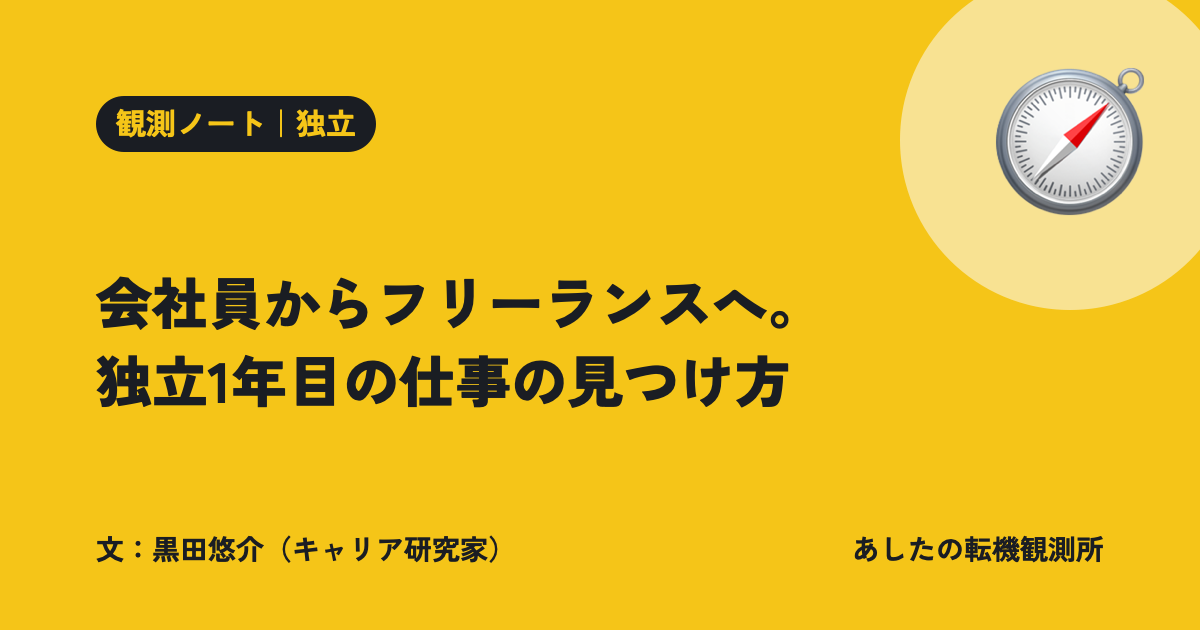
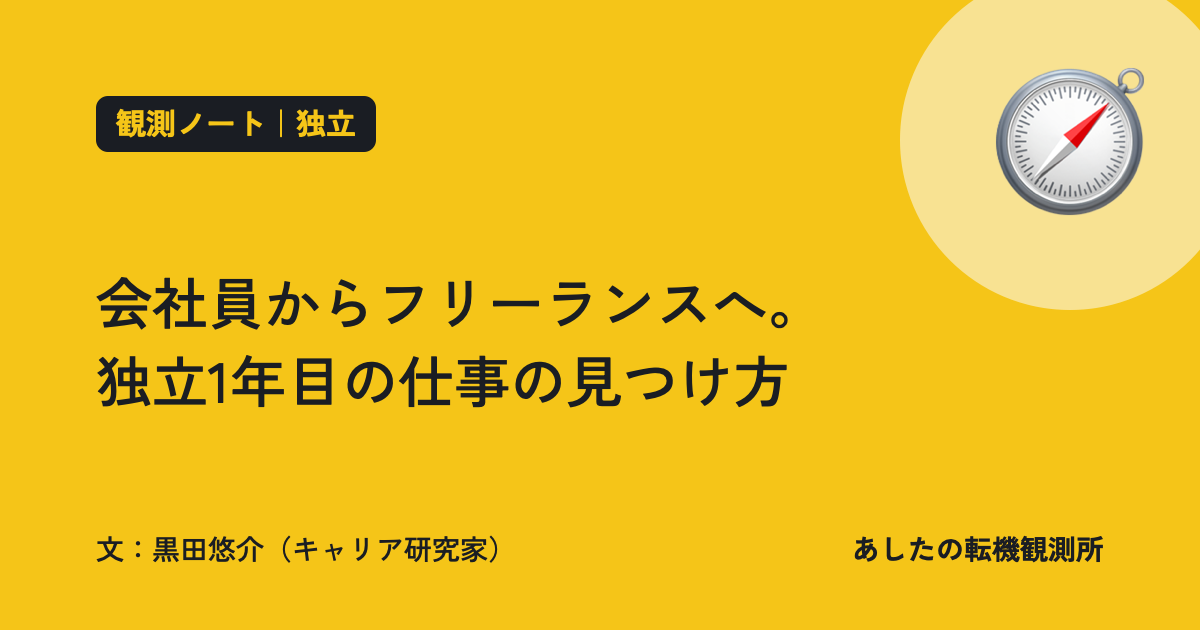
【デザイン】観測ノートの共有画像の題名を太さ500にし、札の角を小さくする（サイトの見出しに合わせる）
題名と署名は Zen Kaku Gothic New の Medium（もとは題名が Black）。札とサイト名は Bold のまま。
札の角は丸い形（rx 28）から 12 に。6本の画像を作り直した。

diff --git a/tools/make_og_images.py b/tools/make_og_images.py
@@ -207,7 +207,8 @@ def svg_note(note, fonts, antenna):
     line_h = int(size * 1.4)
     block = line_h * (len(lines) - 1)
     top = int(345 - block / 2 + size * 0.35)  # 見出しの塊を、上のラベルと下の署名の間の真ん中に置く
-    title_svg = "".join('<text x="96" y="%d" font-family="ZK" font-weight="900" font-size="%d" fill="#1a1d23">%s</text>'
+    # 2026-11-10 unslop の見直しでサイトの見出しを太さ500にしたので、画像の題名も 500（Medium）にそろえる（もとは 900）
+    title_svg = "".join('<text x="96" y="%d" font-family="ZK" font-weight="500" font-size="%d" fill="#1a1d23">%s</text>'
                         % (top + i * line_h, size, esc(line)) for i, line in enumerate(lines))
     names = [t for t in note["tenki"] if t in build.TENKI_BY_NAME]
     emo = build.TENKI_BY_NAME[names[0]].get("emoji", "") if names else ""
@@ -215,16 +216,16 @@ def svg_note(note, fonts, antenna):
     pill_w = 40 + int(len(label) * 30)
     return """<svg xmlns="http://www.w3.org/2000/svg" width="750" height="393.75" viewBox="0 0 1200 630">
 <style>
-@font-face{{font-family:ZK;font-weight:900;src:url(data:font/ttf;base64,{black}) format("truetype");}}
+@font-face{{font-family:ZK;font-weight:500;src:url(data:font/ttf;base64,{black}) format("truetype");}}
 @font-face{{font-family:ZK;font-weight:700;src:url(data:font/ttf;base64,{bold}) format("truetype");}}
 </style>
 <rect width="1200" height="630" fill="#f5c518"/>
 <circle cx="1070" cy="140" r="170" fill="#fbfaf5" opacity="0.55"/>
 <text x="1070" y="198" text-anchor="middle" font-family="Apple Color Emoji" font-size="150">{emo}</text>
-<rect x="96" y="96" width="{pill_w}" height="56" rx="28" fill="#1a1d23"/>
+<rect x="96" y="96" width="{pill_w}" height="56" rx="12" fill="#1a1d23"/>
 <text x="{pill_x}" y="135" font-family="ZK" font-weight="700" font-size="30" fill="#f5c518">{label}</text>
 {title}
-<text x="96" y="560" font-family="ZK" font-weight="700" font-size="28" fill="#1a1d23">文：黒田悠介（キャリア研究家）</text>
+<text x="96" y="560" font-family="ZK" font-weight="500" font-size="28" fill="#1a1d23">文：黒田悠介（キャリア研究家）</text>
 <text x="1104" y="560" text-anchor="end" font-family="ZK" font-weight="700" font-size="28" fill="#1a1d23">あしたの転機観測所</text>
 </svg>""".format(black=fonts[0], bold=fonts[1], emo=esc(emo), pill_w=pill_w, pill_x=116, label=esc(label), title=title_svg)
 
@@ -243,8 +244,9 @@ def render(pages):
 
 
 def main_notes():
-    """観測ノートの共有画像（assets/og/note-<スラッグ>.png）を、下書きも含めて全記事ぶん作り直す。"""
-    fonts = (font_b64("ZenKakuGothicNew-Black"), font_b64("ZenKakuGothicNew-Bold"))
+    """観測ノートの共有画像（assets/og/note-<スラッグ>.png）を、下書きも含めて全記事ぶん作り直す。
+    題名と署名は Medium（500）、札とサイト名は Bold（700）。札の角は小さく（サイトの札と同じ考え方。2026-11-10）"""
+    fonts = (font_b64("ZenKakuGothicNew-Medium"), font_b64("ZenKakuGothicNew-Bold"))
     antenna = antenna_svg()
     pages = []
     for name in sorted(os.listdir(build.NOTES_DIR)):
